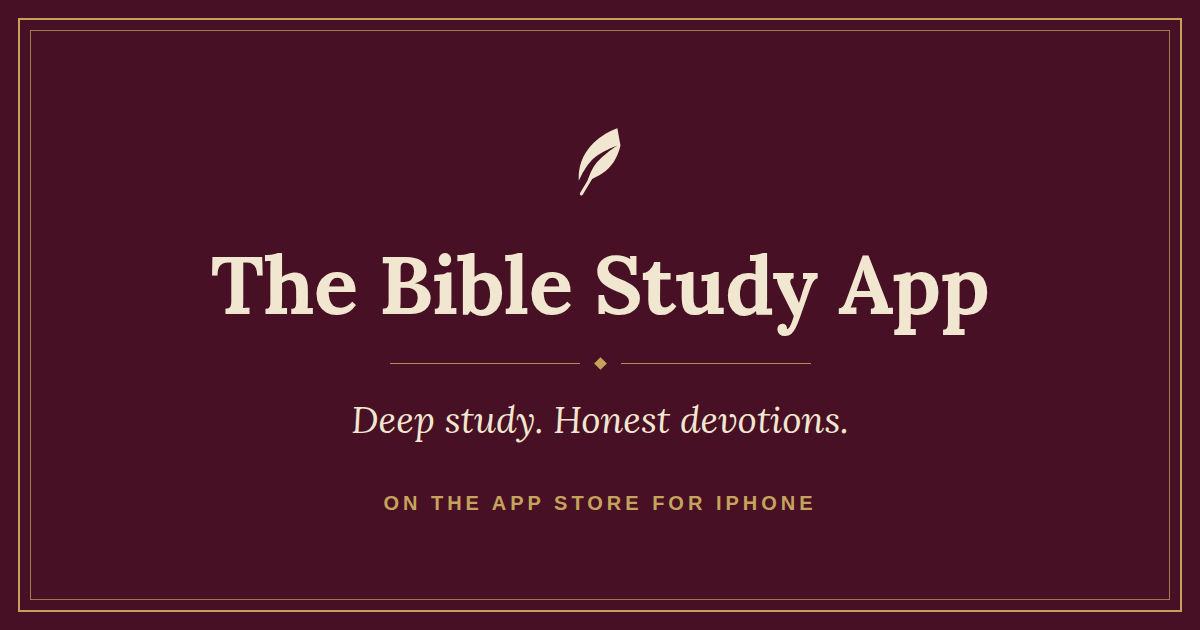
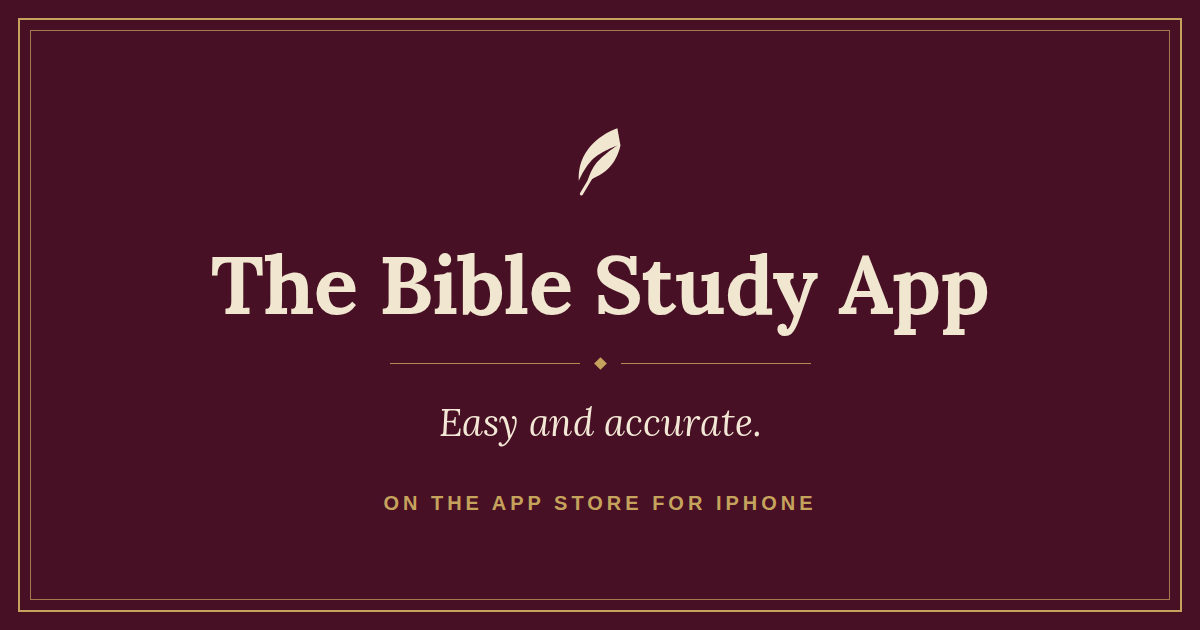
Share cards: Easy and accurate

Changed region(s): [[0.2775, 0.6333, 0.7092, 0.6937]]

diff --git a/reel/index.html b/reel/index.html
@@ -8,14 +8,14 @@
 <meta property="og:type" content="website">
 <meta property="og:site_name" content="The Bible Study App">
 <meta property="og:title" content="The Bible Study App">
-<meta property="og:description" content="Deep study. Honest devotions. On the App Store for iPhone.">
+<meta property="og:description" content="Easy and accurate. On the App Store for iPhone.">
 <meta property="og:url" content="https://trythebiblestudy.app/reel">
 <meta property="og:image" content="https://trythebiblestudy.app/app-card.png">
 <meta property="og:image:width" content="1200">
 <meta property="og:image:height" content="630">
 <meta name="twitter:card" content="summary_large_image">
 <meta name="twitter:title" content="The Bible Study App">
-<meta name="twitter:description" content="Deep study. Honest devotions. On the App Store for iPhone.">
+<meta name="twitter:description" content="Easy and accurate. On the App Store for iPhone.">
 <meta name="twitter:image" content="https://trythebiblestudy.app/app-card.png">
 <meta http-equiv="refresh" content="0;url=https://the-bible-study-app-production.up.railway.app/go/reel">
 <script>location.replace("https://the-bible-study-app-production.up.railway.app/go/reel");</script>

diff --git a/ig/index.html b/ig/index.html
@@ -8,14 +8,14 @@
 <meta property="og:type" content="website">
 <meta property="og:site_name" content="The Bible Study App">
 <meta property="og:title" content="The Bible Study App">
-<meta property="og:description" content="Deep study. Honest devotions. On the App Store for iPhone.">
+<meta property="og:description" content="Easy and accurate. On the App Store for iPhone.">
 <meta property="og:url" content="https://trythebiblestudy.app/ig">
 <meta property="og:image" content="https://trythebiblestudy.app/app-card.png">
 <meta property="og:image:width" content="1200">
 <meta property="og:image:height" content="630">
 <meta name="twitter:card" content="summary_large_image">
 <meta name="twitter:title" content="The Bible Study App">
-<meta name="twitter:description" content="Deep study. Honest devotions. On the App Store for iPhone.">
+<meta name="twitter:description" content="Easy and accurate. On the App Store for iPhone.">
 <meta name="twitter:image" content="https://trythebiblestudy.app/app-card.png">
 <meta http-equiv="refresh" content="0;url=https://the-bible-study-app-production.up.railway.app/go/ig">
 <script>location.replace("https://the-bible-study-app-production.up.railway.app/go/ig");</script>

diff --git a/index.html b/index.html
@@ -3,11 +3,11 @@
 <head>
 <meta charset="utf-8">
 <meta name="viewport" content="width=device-width, initial-scale=1">
-<title>The Bible Study App · Deep study. Honest devotions.</title>
+<title>The Bible Study App · Easy and accurate.</title>
 <meta name="description" content="Every interpretation names its scholar. Every quote sits a tap away from the text it came from.">
 <meta property="og:type" content="website">
 <meta property="og:site_name" content="The Bible Study App">
-<meta property="og:title" content="The Bible Study App · Deep study. Honest devotions.">
+<meta property="og:title" content="The Bible Study App · Easy and accurate.">
 <meta property="og:description" content="Every interpretation names its scholar. Every quote sits a tap away from the text it came from.">
 <meta property="og:url" content="https://trythebiblestudy.app/">
 <meta property="og:image" content="https://trythebiblestudy.app/og-card.png">
